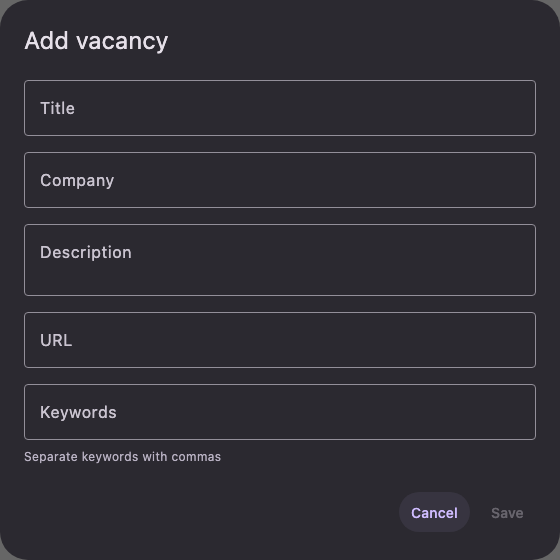
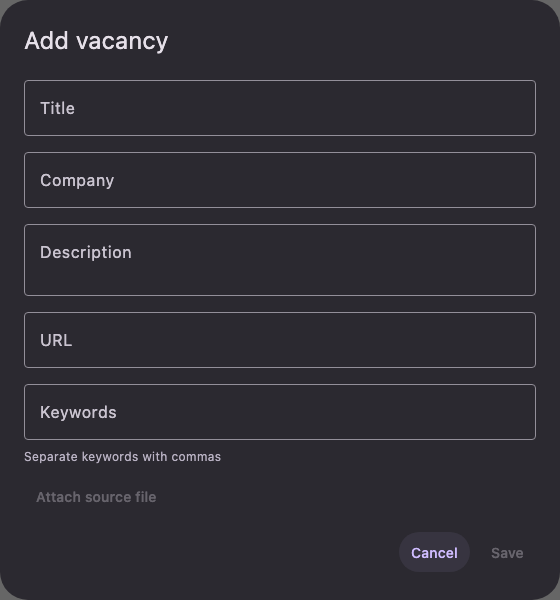
Add source snapshot placeholder to vacancy creation dialog
- Show disabled attachment button with supported snapshot formats
- Document future snapshot storage, URL fetching, and parsing
- Update creation dialog goldens and verify placeholder behavior

diff --git a/shared/src/jvmTest/kotlin/reframecv/ui/compose/projects/vacancies/editor/VacancySnapshotContentTest.kt b/shared/src/jvmTest/kotlin/reframecv/ui/compose/projects/vacancies/editor/VacancySnapshotContentTest.kt
@@ -1,0 +1,35 @@
+package reframecv.ui.compose.projects.vacancies.editor
+
+import androidx.compose.ui.test.ExperimentalTestApi
+import androidx.compose.ui.test.assertIsNotEnabled
+import androidx.compose.ui.test.onNodeWithText
+import androidx.compose.ui.test.performScrollTo
+import androidx.compose.ui.test.v2.runComposeUiTest
+import kotlin.test.Test
+import reframecv.domain.models.vacancy.Vacancy
+import reframecv.ui.components.projects.vacancies.editor.TestVacancyEditorComponent
+import reframecv.ui.theme.ReframeTheme
+
+@OptIn(ExperimentalTestApi::class)
+class VacancySnapshotContentTest {
+    @Test
+    fun creationShowsDisabledAttachmentPlaceholder() = runComposeUiTest {
+        setContent { ReframeTheme { VacancyEditorContent(TestVacancyEditorComponent()) } }
+        onNodeWithText("Attach source file").performScrollTo().assertIsNotEnabled()
+        onNodeWithText(
+            "Coming soon: attach an original snapshot as JSON, HTML, TXT, PNG, JPG, PDF, or DOCX.",
+        ).performScrollTo().assertExists()
+    }
+
+    @Test
+    fun editingDoesNotOfferAttachment() = runComposeUiTest {
+        val vacancy =
+            Vacancy(id = 1, projectId = 7, name = "Backend", createdAt = 100, updatedAt = 200)
+        setContent {
+            ReframeTheme {
+                VacancyEditorContent(TestVacancyEditorComponent(initialVacancy = vacancy))
+            }
+        }
+        onNodeWithText("Attach source file").assertDoesNotExist()
+    }
+}

diff --git a/shared/src/commonMain/kotlin/reframecv/ui/compose/projects/vacancies/editor/VacancySnapshotPlaceholder.kt b/shared/src/commonMain/kotlin/reframecv/ui/compose/projects/vacancies/editor/VacancySnapshotPlaceholder.kt
@@ -1,0 +1,31 @@
+package reframecv.ui.compose.projects.vacancies.editor
+
+import androidx.compose.foundation.layout.Arrangement
+import androidx.compose.foundation.layout.Column
+import androidx.compose.material3.Text
+import androidx.compose.material3.TextButton
+import androidx.compose.runtime.Composable
+import org.jetbrains.compose.resources.stringResource
+import reframecv.shared.SelectableText
+import reframecv.shared.generated.resources.Res
+import reframecv.shared.generated.resources.vacancy_attach_snapshot
+import reframecv.shared.generated.resources.vacancy_snapshot_hint
+import reframecv.ui.theme.ReframeTheme
+
+@Composable
+internal fun VacancySnapshotPlaceholder() {
+    Column(verticalArrangement = Arrangement.spacedBy(ReframeTheme.tokens.spacing.small)) {
+        TextButton(
+            onClick = {},
+            enabled = false,
+            contentPadding = ReframeTheme.tokens.textButtonContentPadding,
+        ) {
+            Text(stringResource(Res.string.vacancy_attach_snapshot))
+        }
+        SelectableText(
+            stringResource(Res.string.vacancy_snapshot_hint),
+            color = ReframeTheme.colorScheme.hint,
+            style = ReframeTheme.tokens.typography.bodySmall,
+        )
+    }
+}

diff --git a/shared/src/commonMain/kotlin/reframecv/ui/compose/projects/vacancies/editor/VacancyEditorFields.kt b/shared/src/commonMain/kotlin/reframecv/ui/compose/projects/vacancies/editor/VacancyEditorFields.kt
@@ -38,6 +38,7 @@ internal fun VacancyEditorFields(
     saveState: VacancySaveState,
     onSave: () -> Unit,
     enabled: Boolean,
+    attachment: @Composable () -> Unit,
 ) {
     val titleFocus = remember { FocusRequester() }
     val submit = { if (draft.title.isNotBlank() && enabled) onSave() }
@@ -67,6 +68,7 @@ internal fun VacancyEditorFields(
             color = ReframeTheme.colorScheme.hint,
             style = ReframeTheme.tokens.typography.bodySmall,
         )
+        attachment()
         if (saveState == VacancySaveState.Failed) {
             SelectableText(
                 stringResource(Res.string.vacancy_save_error),

diff --git a/shared/src/commonMain/kotlin/reframecv/ui/compose/projects/vacancies/editor/VacancyEditorContent.kt b/shared/src/commonMain/kotlin/reframecv/ui/compose/projects/vacancies/editor/VacancyEditorContent.kt
@@ -53,7 +53,9 @@ fun VacancyEditorContent(component: VacancyEditorComponent) {
             )
         },
         text = {
-            VacancyEditorFields(draft, { draft = it }, saveState, save, !isBusy && !confirming)
+            VacancyEditorFields(draft, { draft = it }, saveState, save, !isBusy && !confirming) {
+                if (initial == null) VacancySnapshotPlaceholder()
+            }
         },
         confirmButton = {
             VacancyEditorActions(component, draft.title.isNotBlank(), isBusy, deleteState, save)

diff --git a/docs/plans/project-dashboard.md b/docs/plans/project-dashboard.md
@@ -71,7 +71,18 @@ without creating a resume. Relationships between records are optional.
   referenced by vacancies, including vacancies belonging to deleted projects.
 - [x] Verify persistence, mapping, optional fields, deletion, and foreign-key rollback.
 - Keep schema version 1 while no real user data needs migration.
-- Import workflows and repositories will be added when scraper integration begins.
+
+### Source snapshot attachment
+
+- [x] Indicate future snapshot attachment in the vacancy creation dialog with a
+  disabled button and a short explanation.
+- The first version does not select, read, fetch, parse, or save snapshots.
+- [ ] Support JSON, HTML, TXT, PNG, JPG/JPEG, PDF, and DOCX as original snapshots.
+- [ ] Store original bytes, format, and filename without changing the source content.
+- [ ] Save the snapshot and vacancy atomically when attachment is implemented.
+- [ ] Add URL fetching separately from parsing; vacancy fields remain independently editable.
+
+Import workflows and repositories will be added when scraper integration begins.
 
 ## Navigation and screen layout
 
@@ -437,3 +448,8 @@ Verification on 2026-10-10: all 188 JVM tests, screenshot verification, ktlint,
 Detekt, and coverage verification passed using the full command above. Vacancy-list
 and updated dashboard goldens were visually reviewed in both themes, narrow panes,
 and at increased UI scale. Vacancy creation and editing are implemented through a shared dialog.
+
+Snapshot placeholder verification on 2026-10-10: all 221 JVM tests, screenshot
+verification, ktlint, Detekt, and coverage verification passed. Creation goldens
+were updated and reviewed; the source attachment is disabled and performs no work.
+The database schema and snapshot persistence remain unchanged.
